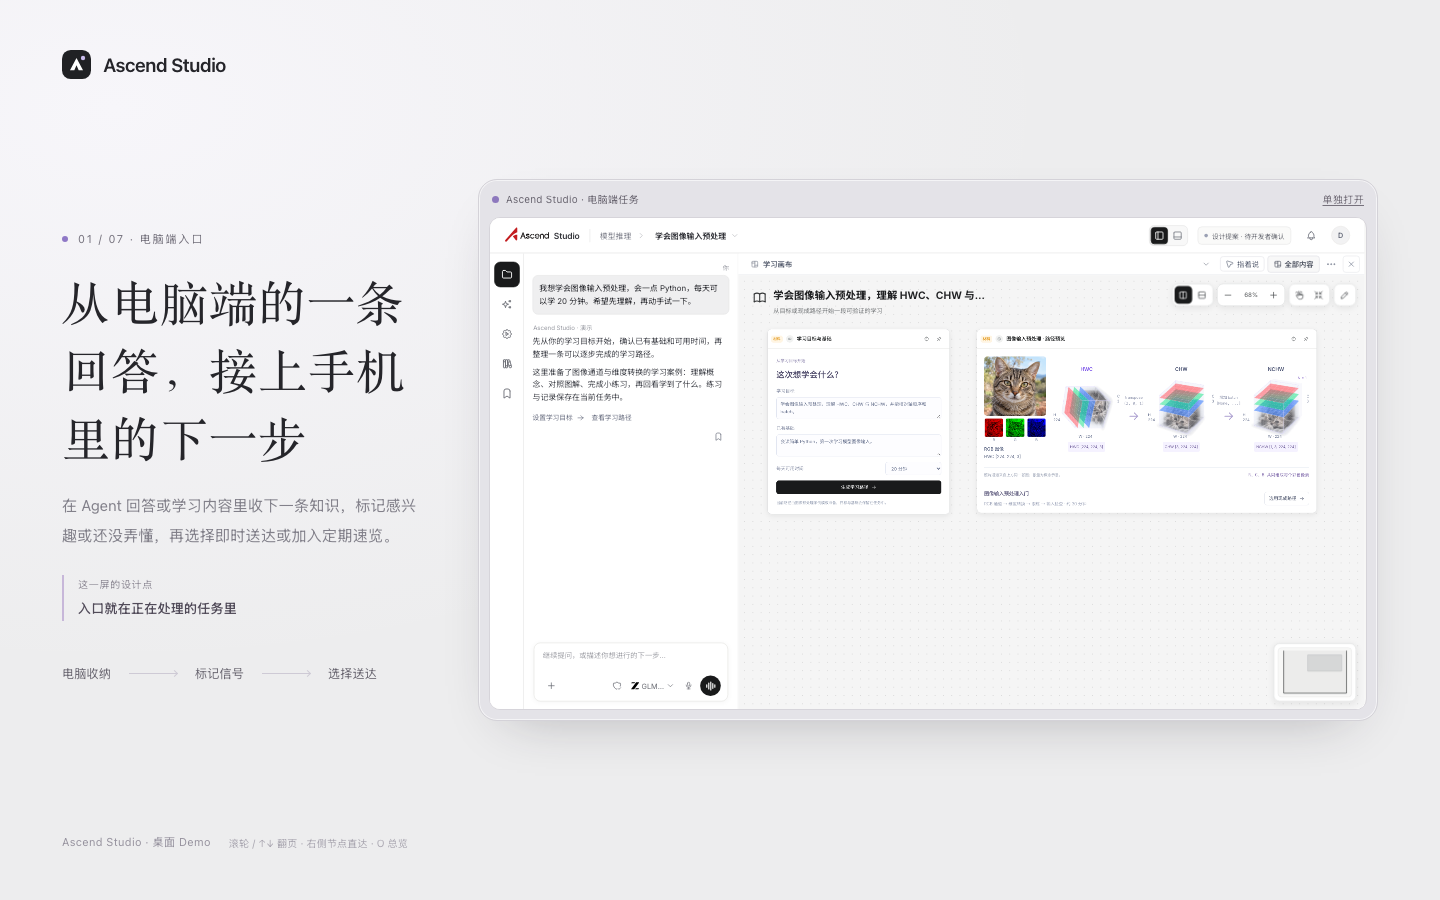
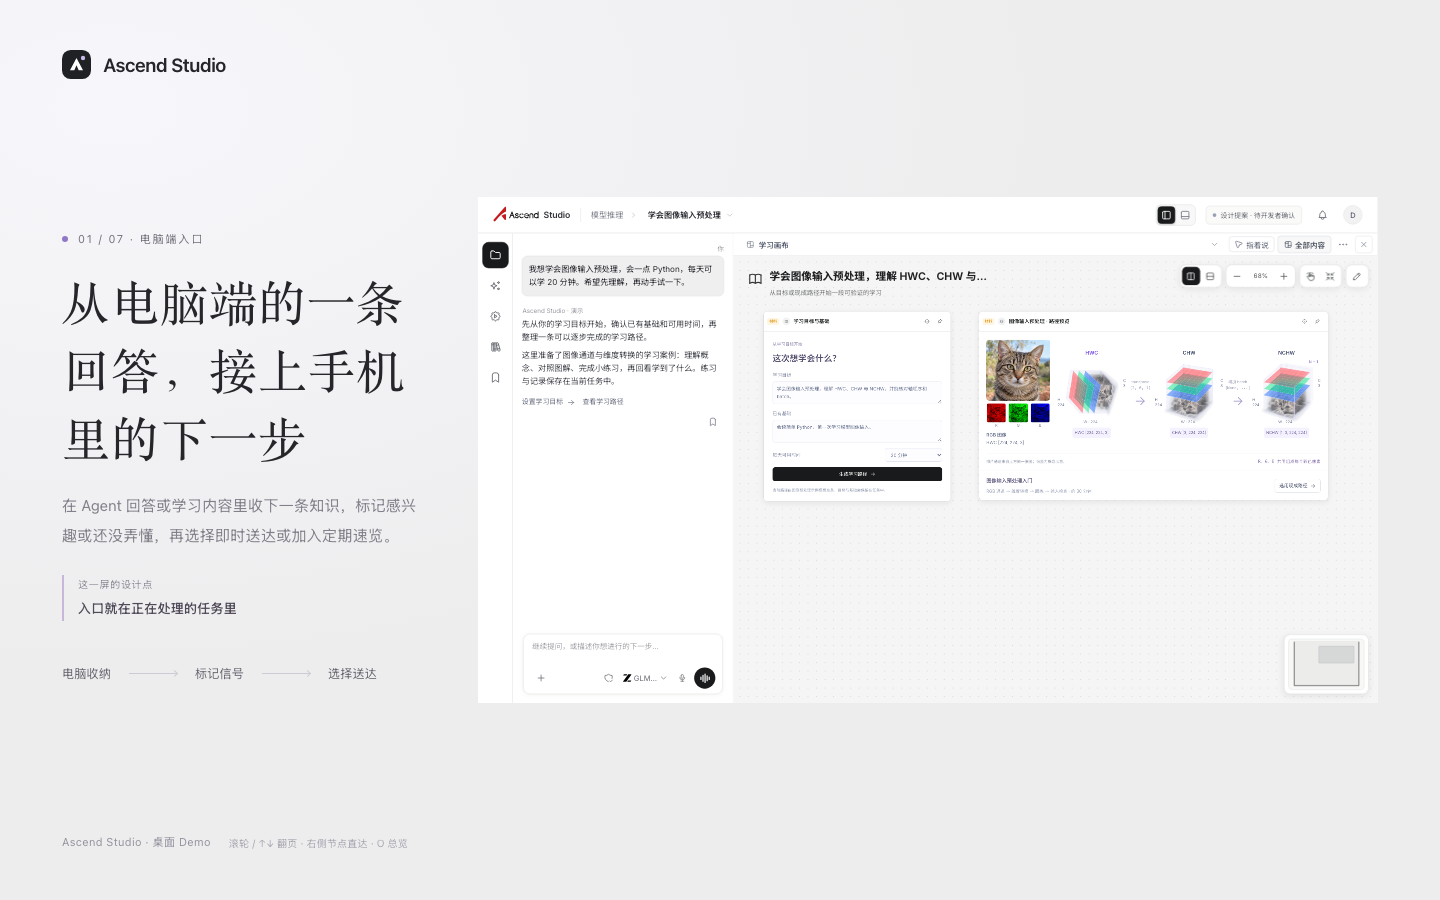
style: remove desktop demo outer card

diff --git a/ascstudio-mini/styles.css b/ascstudio-mini/styles.css
@@ -550,54 +550,6 @@ body.review-overview-open {
   margin-inline:auto;
 }
 .device-wrap.shows-desktop-demo .device { display:none; }
-.desktop-demo-panel {
-  width:100%;
-  min-width:0;
-  height:auto;
-  min-height:0;
-  display:flex;
-  flex-direction:column;
-  overflow:hidden;
-  padding:10px;
-  border:1px solid #d4d2d8;
-  border-radius:19px;
-  background:#e4e3e8;
-  box-shadow:0 22px 55px -30px #28232d55,0 0 0 1px #fff9 inset;
-}
-.desktop-demo-heading {
-  display:flex;
-  flex:0 0 27px;
-  min-width:0;
-  align-items:center;
-  justify-content:space-between;
-  gap:10px;
-  padding:0 3px 8px;
-  color:#696570;
-  font-size:10px;
-  letter-spacing:.15px;
-}
-.desktop-demo-heading>span {
-  display:flex;
-  min-width:0;
-  align-items:center;
-  gap:7px;
-  overflow:hidden;
-  text-overflow:ellipsis;
-  white-space:nowrap;
-}
-.desktop-demo-heading>span i {
-  width:7px;
-  height:7px;
-  flex:0 0 auto;
-  border-radius:50%;
-  background:#8d78bd;
-}
-.desktop-demo-heading a {
-  flex:0 0 auto;
-  color:#76717c;
-  text-decoration:underline;
-  text-underline-offset:2px;
-}
 .desktop-demo-window {
   position:relative;
   width:100%;
@@ -607,9 +559,6 @@ body.review-overview-open {
   min-height:0;
   flex:0 0 auto;
   overflow:hidden;
-  border:1px solid #d6d4da;
-  border-radius:11px;
-  background:#f7f7f5;
 }
 .desktop-demo-window iframe {
   display:block;
@@ -2848,11 +2797,6 @@ body.review-overview-open {
     border-radius:38px;
   }
   .device-wrap.shows-desktop-demo { width:100%; max-width:none; }
-  .desktop-demo-panel {
-    height:auto;
-    min-height:0;
-    padding:7px;
-  }
   .intro-body h1 {
     font-size:35px;
   }
@@ -2909,10 +2853,6 @@ body.review-overview-open {
     min-height:460px;
   }
   .device-wrap.shows-desktop-demo { min-height:0; width:100%; align-self:center; }
-  .desktop-demo-panel {
-    height:auto;
-    min-height:0;
-  }
 }
 @media(max-width:900px) and (min-width:621px) {
   .review-overview-panel {

diff --git a/ascstudio-mini/index.html b/ascstudio-mini/index.html
@@ -28,10 +28,7 @@
       </div>
     </aside>
     <div class="device-wrap" id="device-wrap">
-      <section class="desktop-demo-panel" id="desktop-demo-panel" aria-label="Ascend Studio 电脑端 Demo" hidden>
-        <header class="desktop-demo-heading"><span><i></i>Ascend Studio · 电脑端任务</span><a href="../ascstudio/?task=learning" target="_blank" rel="noopener">单独打开</a></header>
-        <div class="desktop-demo-window" id="desktop-demo-window"><iframe id="desktop-demo-frame" data-src="../ascstudio/?task=learning&amp;pocket-demo=1" title="Ascend Studio 电脑端任务与知识口袋交互 Demo" loading="lazy" referrerpolicy="strict-origin-when-cross-origin"></iframe></div>
-      </section>
+      <div class="desktop-demo-window" id="desktop-demo-window" aria-label="Ascend Studio 电脑端 Demo" hidden><iframe id="desktop-demo-frame" data-src="../ascstudio/?task=learning&amp;pocket-demo=1" title="Ascend Studio 电脑端任务与知识口袋交互 Demo" loading="lazy" referrerpolicy="strict-origin-when-cross-origin"></iframe></div>
       <div class="device device-pura-x-view" id="device" aria-label="HUAWEI Pura X View 样机">
         <div class="system-bar" aria-hidden="true"><time class="system-time">10:08</time><div class="system-status"><span class="network-type">5G</span><svg class="system-signal" viewBox="0 0 18 14"><path d="M2 13V10M6 13V7M10 13V4M14 13V1"/></svg><svg class="system-wifi" viewBox="0 0 24 24"><path d="M12 18l.01 0"/><path d="M9.172 15.172a4 4 0 0 1 5.656 0"/><path d="M6.343 12.343a8 8 0 0 1 11.314 0"/><path d="M3.515 9.515c4.686 -4.687 12.284 -4.687 17 0"/></svg><span class="battery-percent">87%</span><span class="battery"></span></div></div>
         <header class="app-header" id="app-header"></header>

diff --git a/ascstudio-mini/app.js b/ascstudio-mini/app.js
@@ -141,7 +141,7 @@ function updateReviewPanel(route = currentRoute) {
     $("#review-visual").innerHTML = "";
     document.body.classList.remove("review-shows-desktop");
     $("#device-wrap").classList.remove("shows-desktop-demo");
-    $("#desktop-demo-panel").hidden = true;
+    $("#desktop-demo-window").hidden = true;
     $("#review-device-caption").textContent = "HUAWEI Pura X View · 阔直板 · 6.39″";
     $("#review-kicker").textContent = "自由体验";
     $("#review-title").textContent = "继续自由体验";
@@ -174,7 +174,7 @@ function updateReviewPanel(route = currentRoute) {
   const showDesktopDemo = !isReviewThumbnail && innerWidth > 620 && [0, 3].includes(index);
   document.body.classList.toggle("review-shows-desktop", showDesktopDemo);
   $("#device-wrap").classList.toggle("shows-desktop-demo", showDesktopDemo);
-  $("#desktop-demo-panel").hidden = !showDesktopDemo;
+  $("#desktop-demo-window").hidden = !showDesktopDemo;
   $("#review-device-caption").textContent = showDesktopDemo ? "Ascend Studio · 桌面 Demo" : "HUAWEI Pura X View · 阔直板 · 6.39″";
   if (showDesktopDemo) {
     const frame = $("#desktop-demo-frame");

diff --git a/AGENTS.md b/AGENTS.md
@@ -7557,6 +7557,12 @@ node node_modules/vitepress/bin/vitepress.js dev --port 5300
 - 修改 `ascstudio-mini/index.html`、`app.js`、`styles.css`；新增本轮桌面 1440×900 / 1280×720 与移动 390×844 回放证据于 `ascstudio-mini/evidence/`，测试详情见 `ascstudio-mini/qa.md`。依据为用户明确要求（H）；不改变七点叙事、电脑到手机的概念演示状态流或 API / Protocol、Host / Harness、Application / Task 边界，也不把同源浏览器内的演示说成真实微信推送或跨设备同步。
 - 验证：Chrome 本地预览核对第 1 点与第 4 点只显示电脑 Demo，第 1 点 1280×720 与 1440×900 保持桌面比例，390×844 回到微信列表手机页面。`node --check ascstudio-mini/app.js`、`node --check ascstudio-mini/knowledge.js`、`git diff --check` 通过，未运行自动化测试。提交 `824ddf9b` 已推送到 `origin/main`；Pages workflow `40688864250` 成功。线上 `/AscendCANN/ascstudio-mini/?rev=824ddf9b#review-pending`、`styles.css` 与 `app.js` 均 HTTP 200，已回读本轮 16:9 自适应代码与总览提示。
 
+### 2026-10-29 · 电脑 Demo 去掉外层卡片
+
+- 用户要求 Demo 外面不要再套容器。移除灰色圆角卡片、边框、阴影、内边距、重复标题和「单独打开」栏；电脑界面直接呈现在评审画面中。只保留用于 16:9 等比缩放与裁切的无装饰视口。
+- 修改 `ascstudio-mini/index.html`、`app.js`、`styles.css`，并刷新 `evidence/review-desktop-only-1440.png`、`review-desktop-only-1280.png`、`review-desktop-pocket-1440.png`。第 1 / 4 页仍只显示电脑 Demo，其他屏幕和手机端路径不变；不改变七点页序、状态流转或 API / Protocol、Host / Harness、Application / Task 边界。
+- 验证：Chrome 本地预览核对 1440×900、1280×720、第 4 页知识口袋画面；确认 Demo 外无可见容器，仍保持桌面 16:9。`node --check ascstudio-mini/app.js` 与 `git diff --check` 通过，未运行自动化测试。提交 / 推送及 Pages 回执待本轮发布后补记。
+
 
 ### 2026-10-28 · 主动建议卡片混合命名发布回执
 

diff --git a/ascstudio-mini/qa.md b/ascstudio-mini/qa.md
@@ -118,3 +118,9 @@
 - Chrome 本地预览回放：1440×900、第 1 / 4 点；1280×720、第 1 点；390×844 手机微信列表。确认第 1 / 4 点均只呈现电脑画面、口袋视图完整、手机视口不出现电脑 Demo。
 - 截图：`evidence/review-desktop-only-1440.png`、`evidence/review-desktop-only-1280.png`、`evidence/review-desktop-pocket-1440.png`、`evidence/review-wechat-mobile-390.png`。
 - 验证：`node --check ascstudio-mini/app.js`、`node --check ascstudio-mini/knowledge.js`、`git diff --check` 通过；未运行自动化测试。仅调整评审壳呈现与缩放，不改变七点页序、状态流转或 API / Protocol、Host / Harness、Application / Task 边界。
+
+## 2026-10-29 · 去掉电脑 Demo 的外层卡片
+
+- 移除 Demo 外的灰色圆角容器、边框、阴影、内边距和重复标题 / 单独打开栏；电脑界面直接呈现在材料中。仅保留无装饰的 16:9 视口用于等比缩放与裁切。
+- Chrome 本地回放 1440×900、第 1 点与第 4 点，以及 1280×720、第 1 点；确认无可见外层容器，电脑任务与知识口袋界面仍完整。刷新桌面截图：`evidence/review-desktop-only-1440.png`、`evidence/review-desktop-only-1280.png`、`evidence/review-desktop-pocket-1440.png`。
+- `node --check ascstudio-mini/app.js`、`git diff --check` 通过；未运行自动化测试。逻辑视口仍为 1440×810，不改动手机页序或演示状态流。
